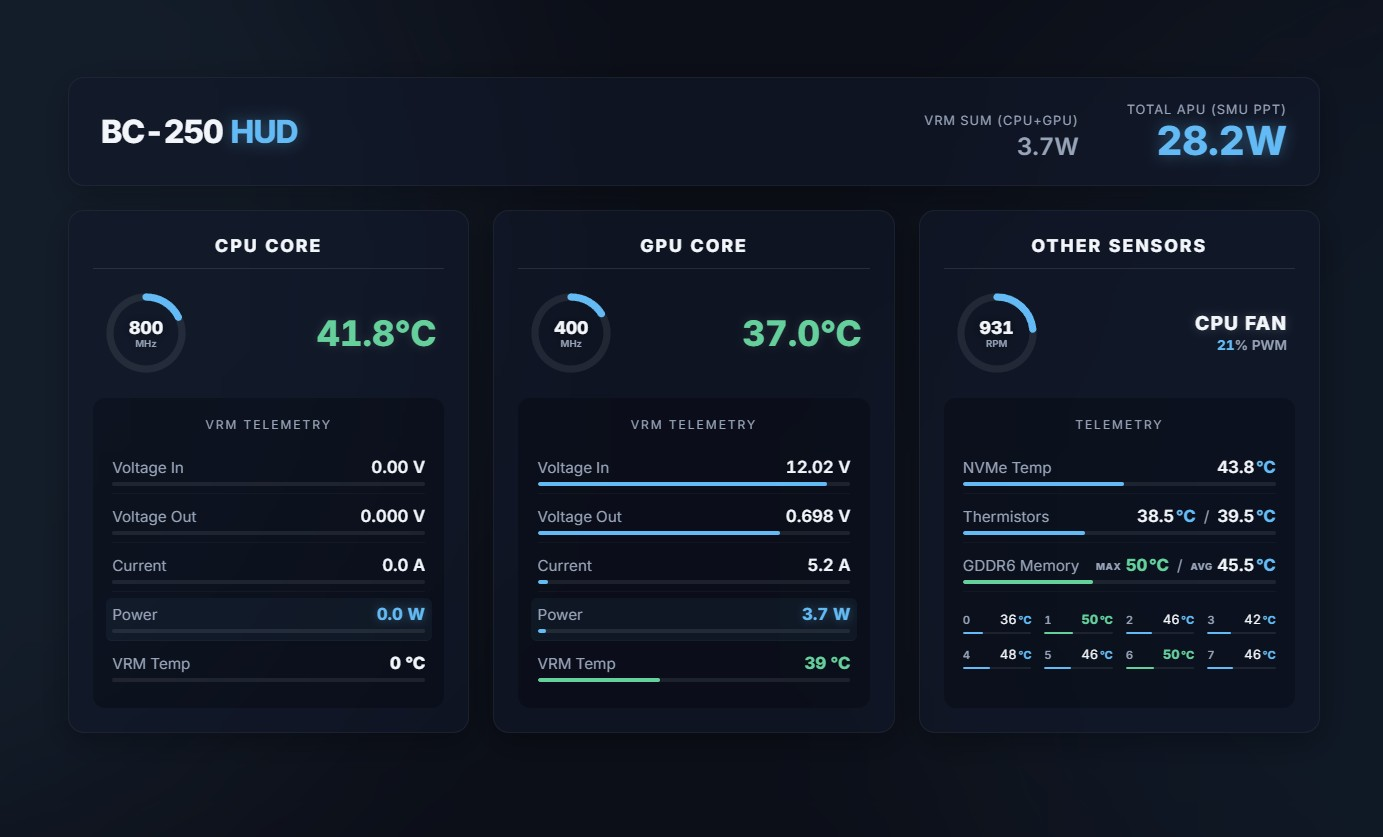
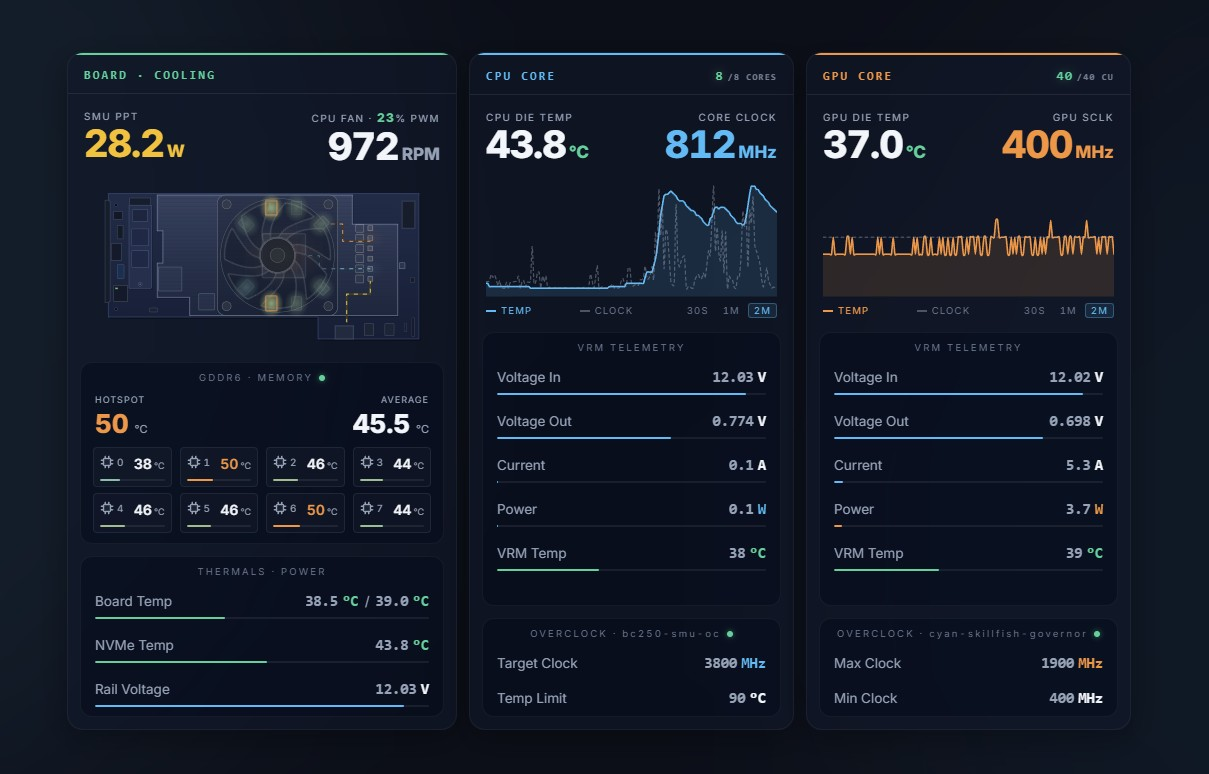
Fix dashboard screenshots in readme

diff --git a/README.md b/README.md
@@ -170,9 +170,16 @@ A drop-in fragment lives in [`mangohud/MangoHud-bc250.conf`](mangohud/MangoHud-b
 
 ## Screenshots
 
-| Classic (`/`) | v2 — animated board diagram (`/v2/`) |
-|---|---|
-| ![Classic dashboard](images/v1.jpg) | ![v2 dashboard](images/v2.jpg) |
+<table>
+  <tr>
+    <th align="center">Classic (<code>/</code>)</th>
+    <th align="center">v2 — animated board diagram (<code>/v2/</code>)</th>
+  </tr>
+  <tr>
+    <td align="center" valign="middle"><img src="images/v1.jpg" alt="Classic dashboard" height="260"></td>
+    <td align="center" valign="middle"><img src="images/v2.jpg" alt="v2 dashboard" height="260"></td>
+  </tr>
+</table>
 
 ## Quick start
 
